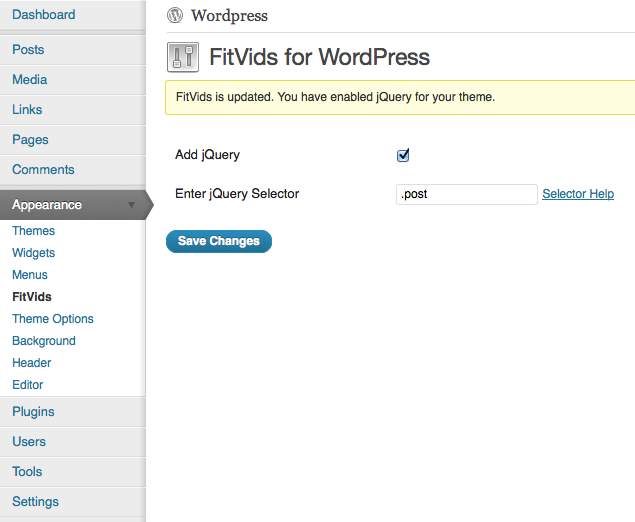
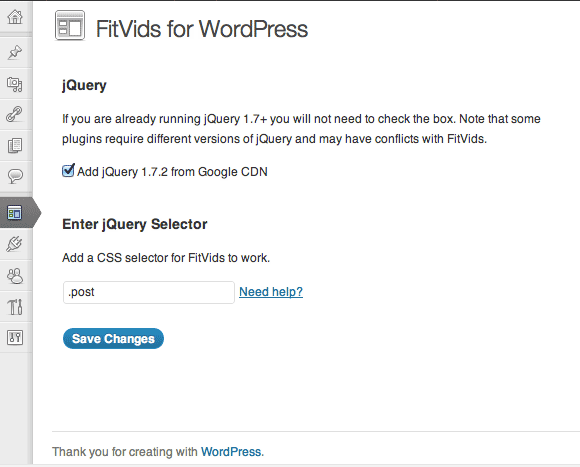
version 2.0
git-svn-id: https://plugins.svn.wordpress.org/fitvids-for-wordpress/trunk@545124 b8457f37-d9ea-0310-8a92-e5e31aec5664

diff --git a/jquery.fitvids.js b/jquery.fitvids.js
@@ -1,22 +1,26 @@
 /*global jQuery */
 /*! 
-* FitVids 1.0
-*
-* Copyright 2011, Chris Coyier - http://css-tricks.com + Dave Rupert - http://daverupert.com
-* Credit to Thierry Koblentz - http://www.alistapart.com/articles/creating-intrinsic-ratios-for-video/
-* Released under the WTFPL license - http://sam.zoy.org/wtfpl/
-*
-* Date: Thu Sept 01 18:00:00 2011 -0500
-*/
+ * FitVids 1.0
+ *
+ * Copyright 2011, Chris Coyier - http://css-tricks.com + Dave Rupert - http://daverupert.com
+ * Credit to Thierry Koblentz - http://www.alistapart.com/articles/creating-intrinsic-ratios-for-video/
+ * Released under the WTFPL license - http://sam.zoy.org/wtfpl/
+ *
+ * Date: Thu Sept 01 18:00:00 2011 -0500
+ */
 
 (function( $ ){
 
-  $.fn.fitVids = function() {
-    var div = document.createElement('div'),
-        ref = document.getElementsByTagName('base')[0] || document.getElementsByTagName('script')[0];
-        
-  	div.className = 'fit-vids-style';
-    div.innerHTML = '&shy;<style>         \
+    $.fn.fitVids = function( options ) {
+        var settings = {
+            customSelector: null
+        }
+
+        var div = document.createElement('div'),
+            ref = document.getElementsByTagName('base')[0] || document.getElementsByTagName('script')[0];
+
+        div.className = 'fit-vids-style';
+        div.innerHTML = '&shy;<style>         \
       .fluid-width-video-wrapper {        \
          width: 100%;                     \
          position: relative;              \
@@ -33,28 +37,41 @@
          height: 100%;                    \
       }                                   \
     </style>';
-                      
-    ref.parentNode.insertBefore(div,ref);
-  
-    return this.each(function(){
-      var selectors = [
-        "iframe[src^='http://player.vimeo.com']", 
-        "iframe[src^='http://www.youtube.com']", 
-        "iframe[src^='http://www.kickstarter.com']", 
-        "object", 
-        "embed"
-      ];
 
-      var $allVideos = $(this).find(selectors.join(','));
-      
-      $allVideos.each(function(){
-        var $this = $(this), 
-            height = this.tagName == 'OBJECT' ? $this.attr('height') : $this.height(),
-            aspectRatio = height / $this.width();
-        $this.wrap('<div class="fluid-width-video-wrapper" />').parent('.fluid-width-video-wrapper').css('padding-top', (aspectRatio * 100)+"%");
-        $this.removeAttr('height').removeAttr('width');
-      });
-    });
-  
-  }
+        ref.parentNode.insertBefore(div,ref);
+
+        if ( options ) {
+            $.extend( settings, options );
+        }
+
+        return this.each(function(){
+            var selectors = [
+                "iframe[src*='player.vimeo.com']",
+                "iframe[src*='www.youtube.com']",
+                "iframe[src*='www.kickstarter.com']",
+                "object",
+                "embed"
+            ];
+
+            if (settings.customSelector) {
+                selectors.push(settings.customSelector);
+            }
+
+            var $allVideos = $(this).find(selectors.join(','));
+
+            $allVideos.each(function(){
+                var $this = $(this);
+                if (this.tagName.toLowerCase() == 'embed' && $this.parent('object').length || $this.parent('.fluid-width-video-wrapper').length) { return; }
+                var height = this.tagName.toLowerCase() == 'object' ? $this.attr('height') : $this.height(),
+                    aspectRatio = height / $this.width();
+                if(!$this.attr('id')){
+                    var videoID = 'fitvid' + Math.floor(Math.random()*999999);
+                    $this.attr('id', videoID);
+                }
+                $this.wrap('<div class="fluid-width-video-wrapper"></div>').parent('.fluid-width-video-wrapper').css('padding-top', (aspectRatio * 100)+"%");
+                $this.removeAttr('height').removeAttr('width');
+            });
+        });
+
+    }
 })( jQuery );

diff --git a/fitvids-for-wordpress.php b/fitvids-for-wordpress.php
@@ -3,7 +3,7 @@
 Plugin Name: FitVids for WordPress
 Plugin URI: http://wordpress.org/extend/plugins/fitvids-for-wordpress/
 Description: This plugin makes videos responsive using the FitVids jQuery plugin on WordPress.
-Version: 1.0.1
+Version: 2.0
 Tags: videos, fitvids, responsive
 Author URI: http://kevindees.cc
 
@@ -11,8 +11,8 @@ Author URI: http://kevindees.cc
 |                                                                    |
 | License: GPL                                                       |
 |                                                                    |
-| Dashboard Cleanup - cleaning up the wordpress dashboard.           |
-| Copyright (C) 2011, Kevin Dees,                                    |
+| FitVids for WordPress - makes videos responsive.           |
+| Copyright (C) 2012, Kevin Dees,                                    |
 | http://kevindees.cc                                               |
 | All rights reserved.                                               |
 |                                                                    |
@@ -50,20 +50,22 @@ class fitvids_wp {
 
 	// make menu
 	function menu() {
-		add_submenu_page('themes.php', 'FitVids for WordPress', 'FitVids', 'administrator', __FILE__,array($this, 'settings_page'), '', '');
+		add_submenu_page('themes.php', 'FitVids for WordPress', 'FitVids', 'edit_themes', __FILE__,array($this, 'settings_page'), '', '');
 	}
 
 	// create page for output and input
 	function settings_page() {
 		?>
-	    <div class="icon32" id="icon-options-general"><br></div>
+	    <div class="icon32" id="icon-themes"><br></div>
 	    <div id="fitvids-wp-page" class="wrap">
 	    
 	    <h2>FitVids for WordPress</h2>
 	    
 	    <?php
 	    // $_POST needs to be sanitized by version 1.0
-	   	if($_POST['submit']) {
+	   	if($_POST['submit'] && check_admin_referer('fitvids_action','fitvids_ref') ) {
+			  $fitvids_wp_message = '';
+
 	   		update_option('fitvids_wp_jq', addslashes($_POST['fitvids_wp_jq']));
 	   		update_option('fitvids_wp_selector', trim(addslashes($_POST['fitvids_wp_selector'])));
 	   		
@@ -73,35 +75,41 @@ class fitvids_wp {
 	    ?>
 	    
 	    <form method="post" action="<?php echo esc_attr($_SERVER["REQUEST_URI"]); ?>">
-	    <?php
-	    // settings_fields('fitvids_wp_settings_group');
-	    
+		  <?php
+		  wp_nonce_field('fitvids_action','fitvids_ref');
 	    if(get_option('fitvids_wp_jq') == 'true') { $checked = 'checked="checked"'; }
 	    ?>
-	    
-	    <table class="form-table">
+
+      <table class="form-table">
 	    <tbody>
 	    <tr>
-	    	<th><label for="fitvids_wp_jq">Add jQuery</label></th>
-		    <td>
-		    	<input 	id="fitvids_wp_jq" 
-		    			value="true" 
-		    			name="fitvids_wp_jq" 
-		    			type="checkbox" 
-		    			<?php echo $checked; ?>
-		    	>
-		    </td>
-	    </tr>	
+		  <td>
+
+		    <h3 style="font-weight: bold;">jQuery</h3>
+				<p>If you are already running jQuery 1.7+ you will not need to check the box. Note that some plugins require different versions of jQuery and may have conflicts with FitVids.</p>
+			  <label><input 	id="fitvids_wp_jq"
+			          value="true"
+			          name="fitvids_wp_jq"
+			          type="checkbox"
+			          <?php echo $checked; ?>
+			      > Add jQuery 1.7.2 from Google CDN</label>
+
+		  </td>
+	    </tr>
 	    <tr>
-		    <th><label for="fitvids_wp_selector">Enter jQuery Selector</label></th>
-		    <td>
-		    	<input id="fitvids_wp_selector" value="<?php echo get_option('fitvids_wp_selector'); ?>" name="fitvids_wp_selector" type="text"> <a href="http://www.w3schools.com/jquery/jquery_selectors.asp" target="_blank">Need help?</a>
-	    	</td>
-    	</tr>	
+		  <td>
+
+		   <h3 style="font-weight: bold;"><label for="fitvids_wp_selector">Enter jQuery Selector</label></h3>
+			 <p>Add a CSS selector for FitVids to work.</p>
+		   <input id="fitvids_wp_selector" value="<?php echo get_option('fitvids_wp_selector'); ?>" name="fitvids_wp_selector" type="text"> <a href="http://www.w3schools.com/jquery/jquery_selectors.asp" target="_blank">Need help?</a>
+
+	     <p class="submit">
+	     <input type="submit" name="submit" class="button-primary" value="Save Changes" /></p>
+
+		  </td>
+	    </tr>
 	    </tbody>
-	    </table>
-	    <p class="submit">
-	    <input type="submit" name="submit" class="button-primary" value="Save Changes" /></p>
+      </table>
 	    </form>
 	    
 	    </div>
@@ -111,8 +119,8 @@ class fitvids_wp {
     // add FitVids to site
     function fitvids_scripts() {
     	if(get_option('fitvids_wp_jq') == 'true') {
-    		wp_deregister_script( 'jquery' );
-			wp_register_script( 'jquery', 'http://ajax.googleapis.com/ajax/libs/jquery/1.6/jquery.min.js', '1.0');
+    	wp_deregister_script( 'jquery' );
+			wp_register_script( 'jquery', 'https://ajax.googleapis.com/ajax/libs/jquery/1.7.2/jquery.min.js', '1.0');
 			wp_enqueue_script( 'jquery' );
     	}
     	
